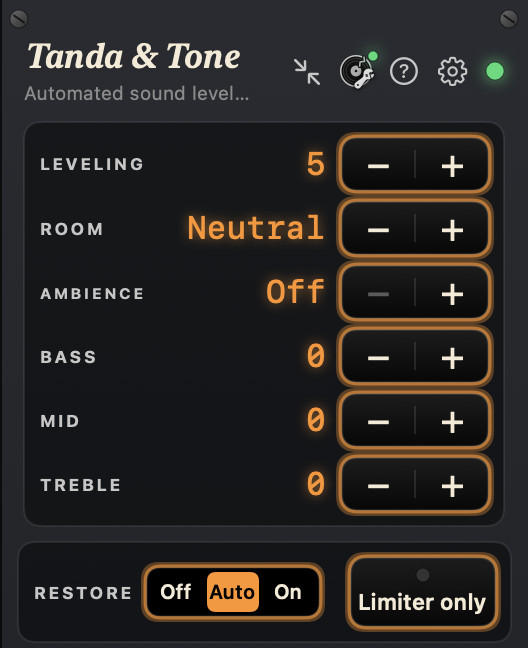
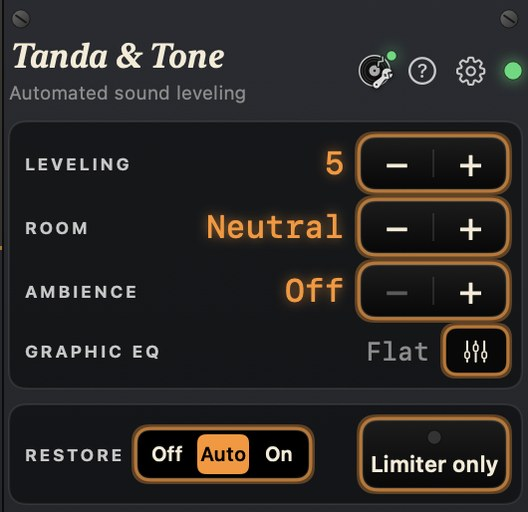
Tanda & Tone: the public pages (2026-11-13)

Changed region(s): [[0.0, 0.0, 1.0, 1.0], [0.9394, 0.0, 0.9697, 0.0625], [0.5455, 0.0938, 0.6061, 0.125]]

diff --git a/privacy.html b/privacy.html
@@ -403,7 +403,7 @@
 <p>Everything is stored on your Mac, in the app's own folder, and never leaves it:</p>
 <ul><li>your settings (the output devices, the tone controls, the cortina folder and its settings, the pause between tracks, the columns and the lock);</li><li>the music folders you choose and, for each file in them, where it is, its tags (title, artist, orchestra, singer, rhythm, year and so on, with the corrections you make; your files themselves are never changed), its tempo and a few numbers about its loudness and tone, <code>library.json</code>;</li><li>for each track, a few numbers about its loudness and tone and your choices for it, so the app can level it better the next time, together with the track's title and artist;</li><li>your playlists, what is up next, and where you were when the app last closed, so it can offer to go on after a crash;</li><li>with the Restore Workshop: its list of recordings and, for each one it restored, a report of numbers;</li><li>the set log: for each evening, the tracks you played with the time, orchestra, singer, title, year and rhythm, as a text file and a playlist file in the <code>sets</code> folder, written as the evening goes;</li><li>logs for troubleshooting: numbers (loudness, performance) and the title and artist of the tracks played.</li></ul>
 <h2>What it does not store</h2>
-<p>It never records sound. The only audio it holds is a few seconds of the track being played, in memory, to process it, and it is gone when the app stops. The Restore Workshop writes restored copies of your own files, the ones you give it, into the folder you choose, and nowhere else. Its trained denoise model is part of the app and runs on your Mac (the Neural Engine); no sound is sent anywhere to be processed.</p>
+<p>It never records sound. The only audio it holds is a few seconds of the track being played, in memory, to process it, and it is gone when the app stops. The Restore Workshop writes restored copies of your own files, the ones you give it, into the folder you choose, and nowhere else. Its trained denoise model is part of the app and runs on your Mac; no sound is sent anywhere to be processed.</p>
 <h2>Deleting your data</h2>
 <p>Quit the app, then delete its folder. In the version from the App Store it is <code>~/Library/Containers/com.christianmelbybjoern.tango/Data/Library/Application Support/Tanda &amp; Tone/</code>. That removes the library, the track numbers, the set logs and the logs in one step. Setup → <em>Delete all notes</em> removes only the per-track numbers. Restored copies and exported set lists are ordinary files in the folders you chose: delete them in Finder. Removing the app does not touch your music.</p>
 <h2>TestFlight</h2>

diff --git a/support.html b/support.html
@@ -539,9 +539,9 @@
       <tr><td>Room</td><td>The room the PA stands in, from Padded through Neutral to Boomy. Boomy brings the bass
         down for a reverberant hall; Padded brings warmth and air back to a damped room.</td></tr>
       <tr><td>Ambience</td><td>A small room added to a very dry recording. Off leaves the sound alone.</td></tr>
-      <tr><td>Bass · Mid · Treble</td><td>Up to 6 dB either way, for the touch of tone you want for this room or this
-        orchestra. What you set is remembered for the track and comes back when it plays again; a track you never
-        touched keeps what is set.</td></tr>
+      <tr><td>Graphic EQ</td><td>Nine faders for the room, 63 Hz to 16 kHz, −12 to +6 dB, set once for the night:
+        it stays when the track changes and when the app opens again. On switches it off to compare; Flat puts it back
+        to 0.</td></tr>
       <tr><td>Restore</td><td>Off, Auto or On: cleanup of clicks, crackle and hiss while a track plays. Auto decides
         for each track; most DJs leave it there.</td></tr>
       <tr><td>Limiter only</td><td>For a track where the processing sounds wrong: this track then gets only the level

diff --git a/index.html b/index.html
@@ -384,12 +384,12 @@
         <p class="label">Your settings</p>
         <h3>How it should sound is still your call</h3>
         <p class="why">Leveling sets how much, and Soft is the lightest touch. Quiet lift sets how far a soft
-          passage may come up, down to nothing. Room, Bass, Mid and Treble fit the hall, Restore is Off, Auto or
+          passage may come up, down to nothing. Room and a nine-band graphic EQ fit the hall, Restore is Off, Auto or
           On, and one track can go a little up or down, remembered for its next play. The volume is your
           mixer's.</p>
       </div>
       <figure>
-        <img src="images/tango-sound.jpg" width="264" height="324" loading="lazy" alt="The sound controls: Leveling at 5, Room at Neutral, Ambience off, Bass, Mid and Treble at 0, Restore on Auto and the Limiter only button">
+        <img src="images/tango-sound.jpg" width="264" height="256" loading="lazy" alt="The sound controls: Leveling at 5, Room at Neutral, Ambience off, the Graphic EQ flat, Restore on Auto and the Limiter only button">
       </figure>
     </div>
   </div>
